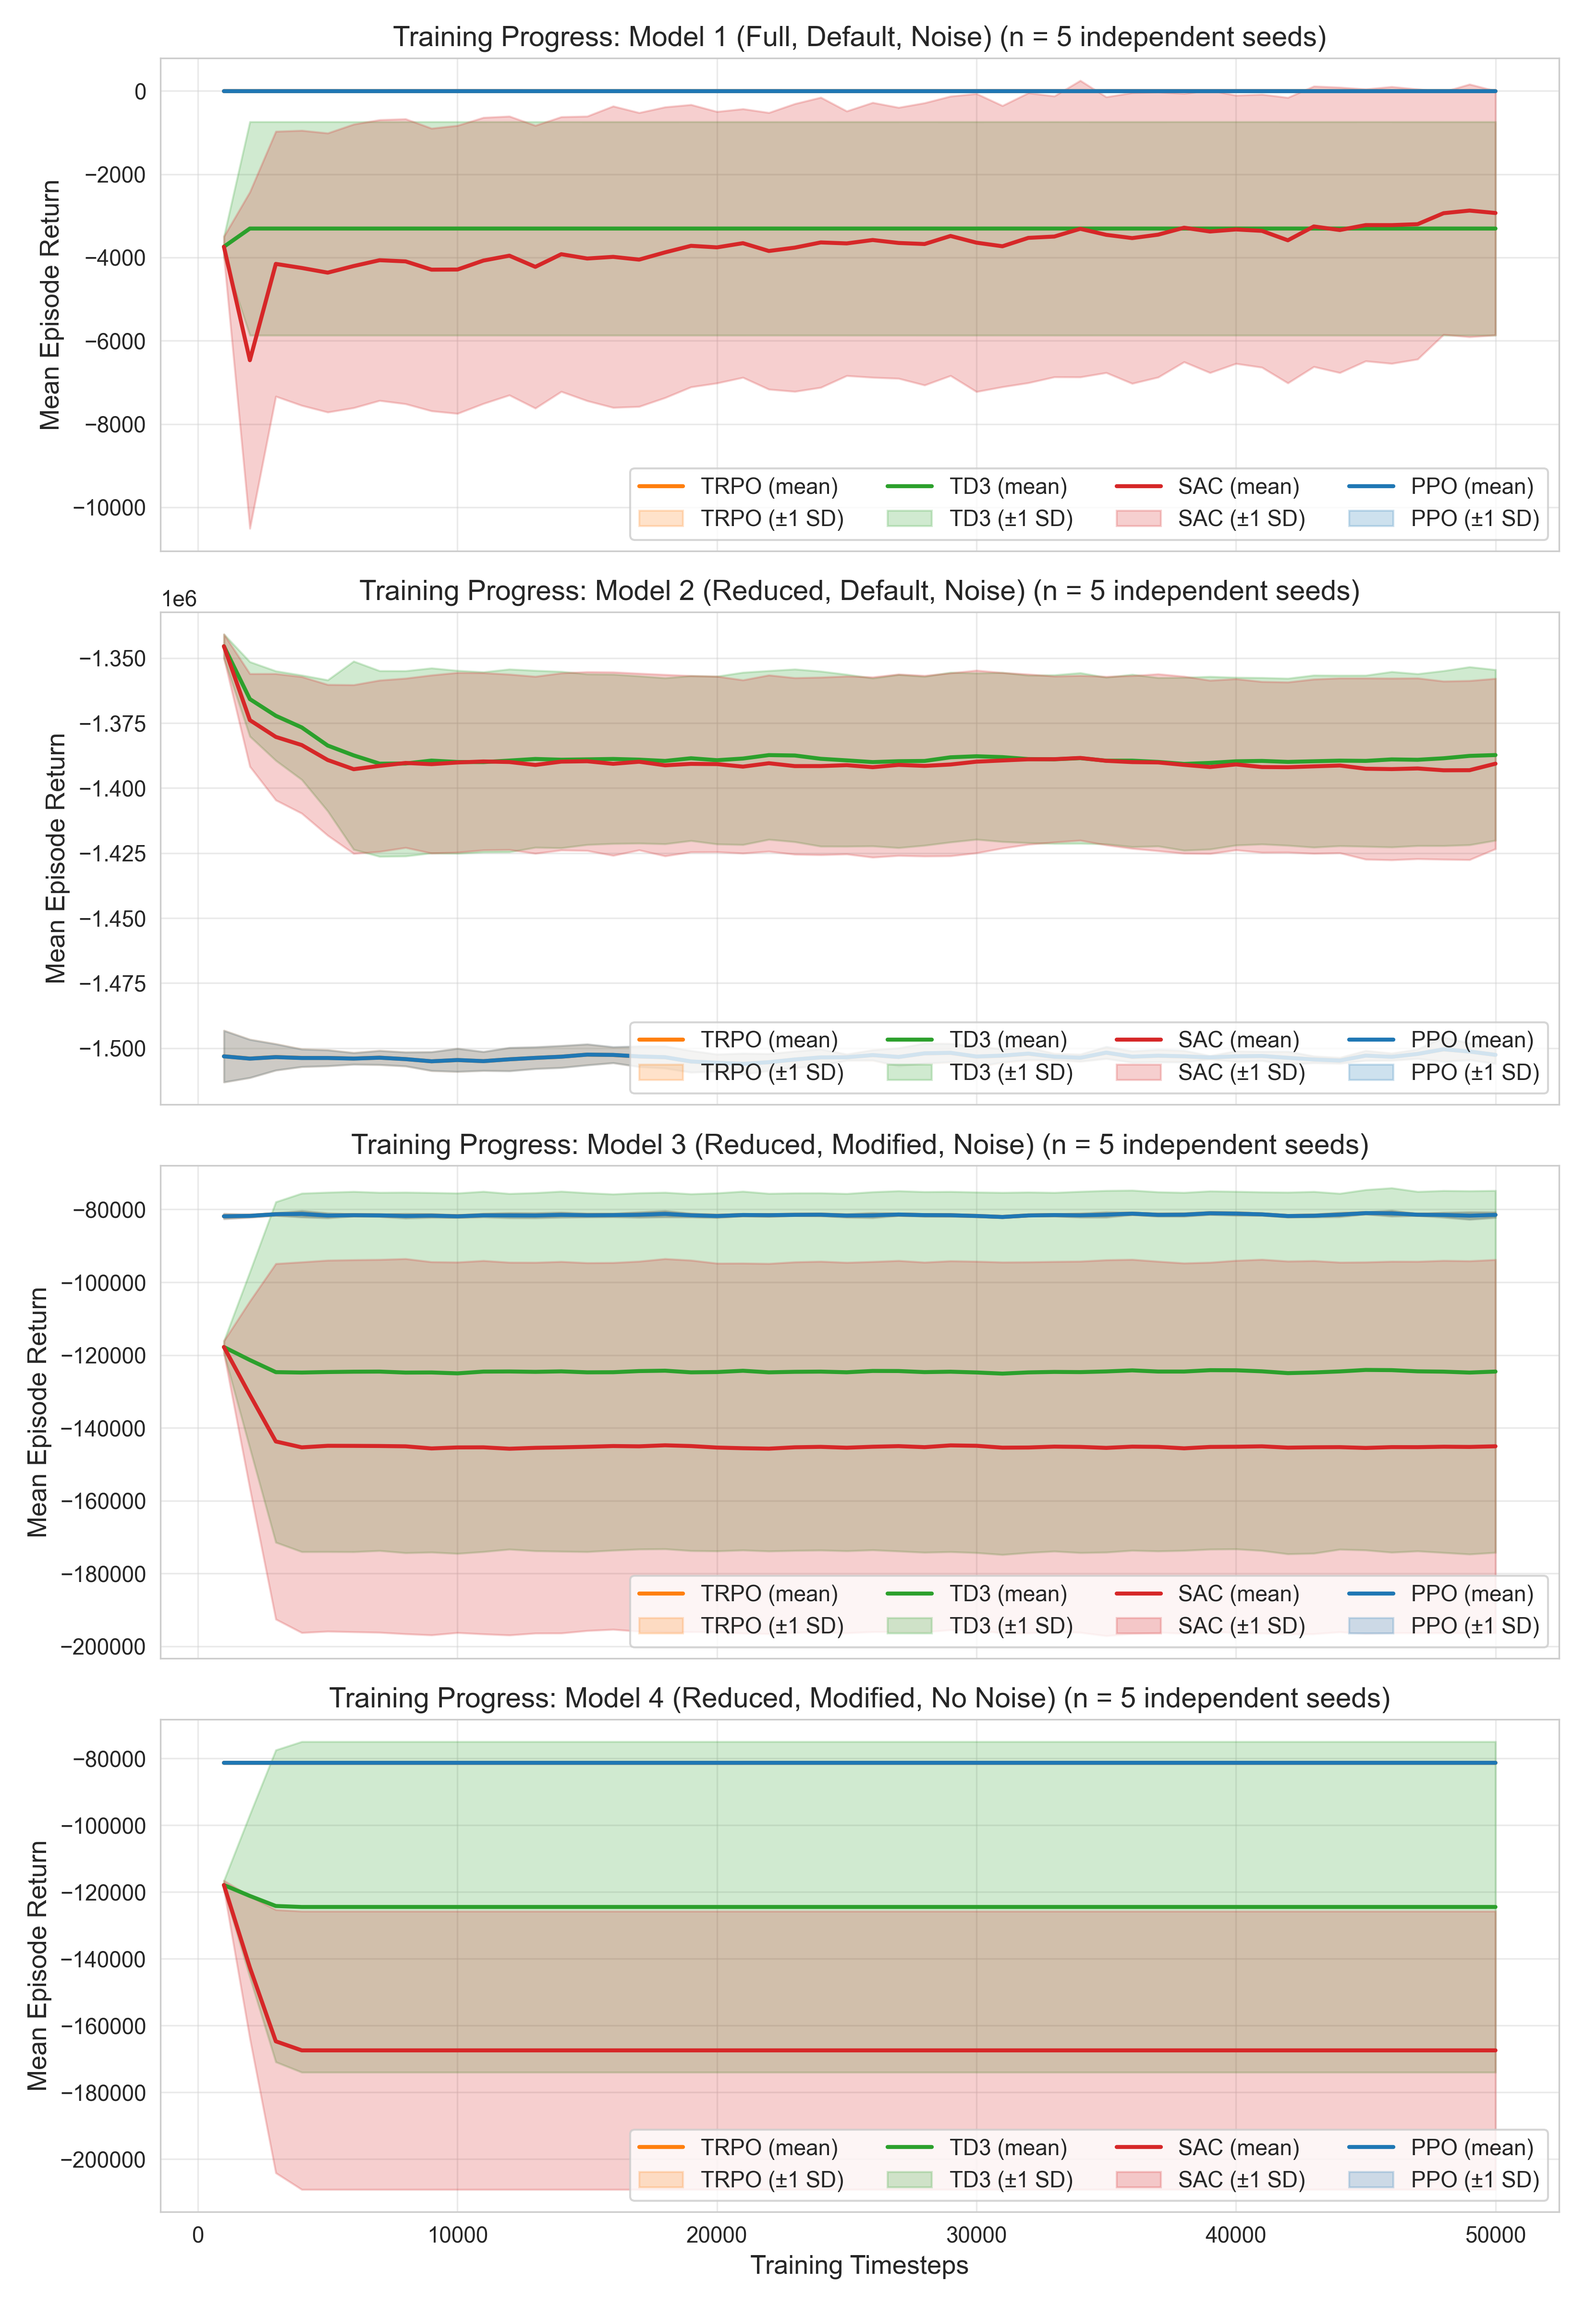
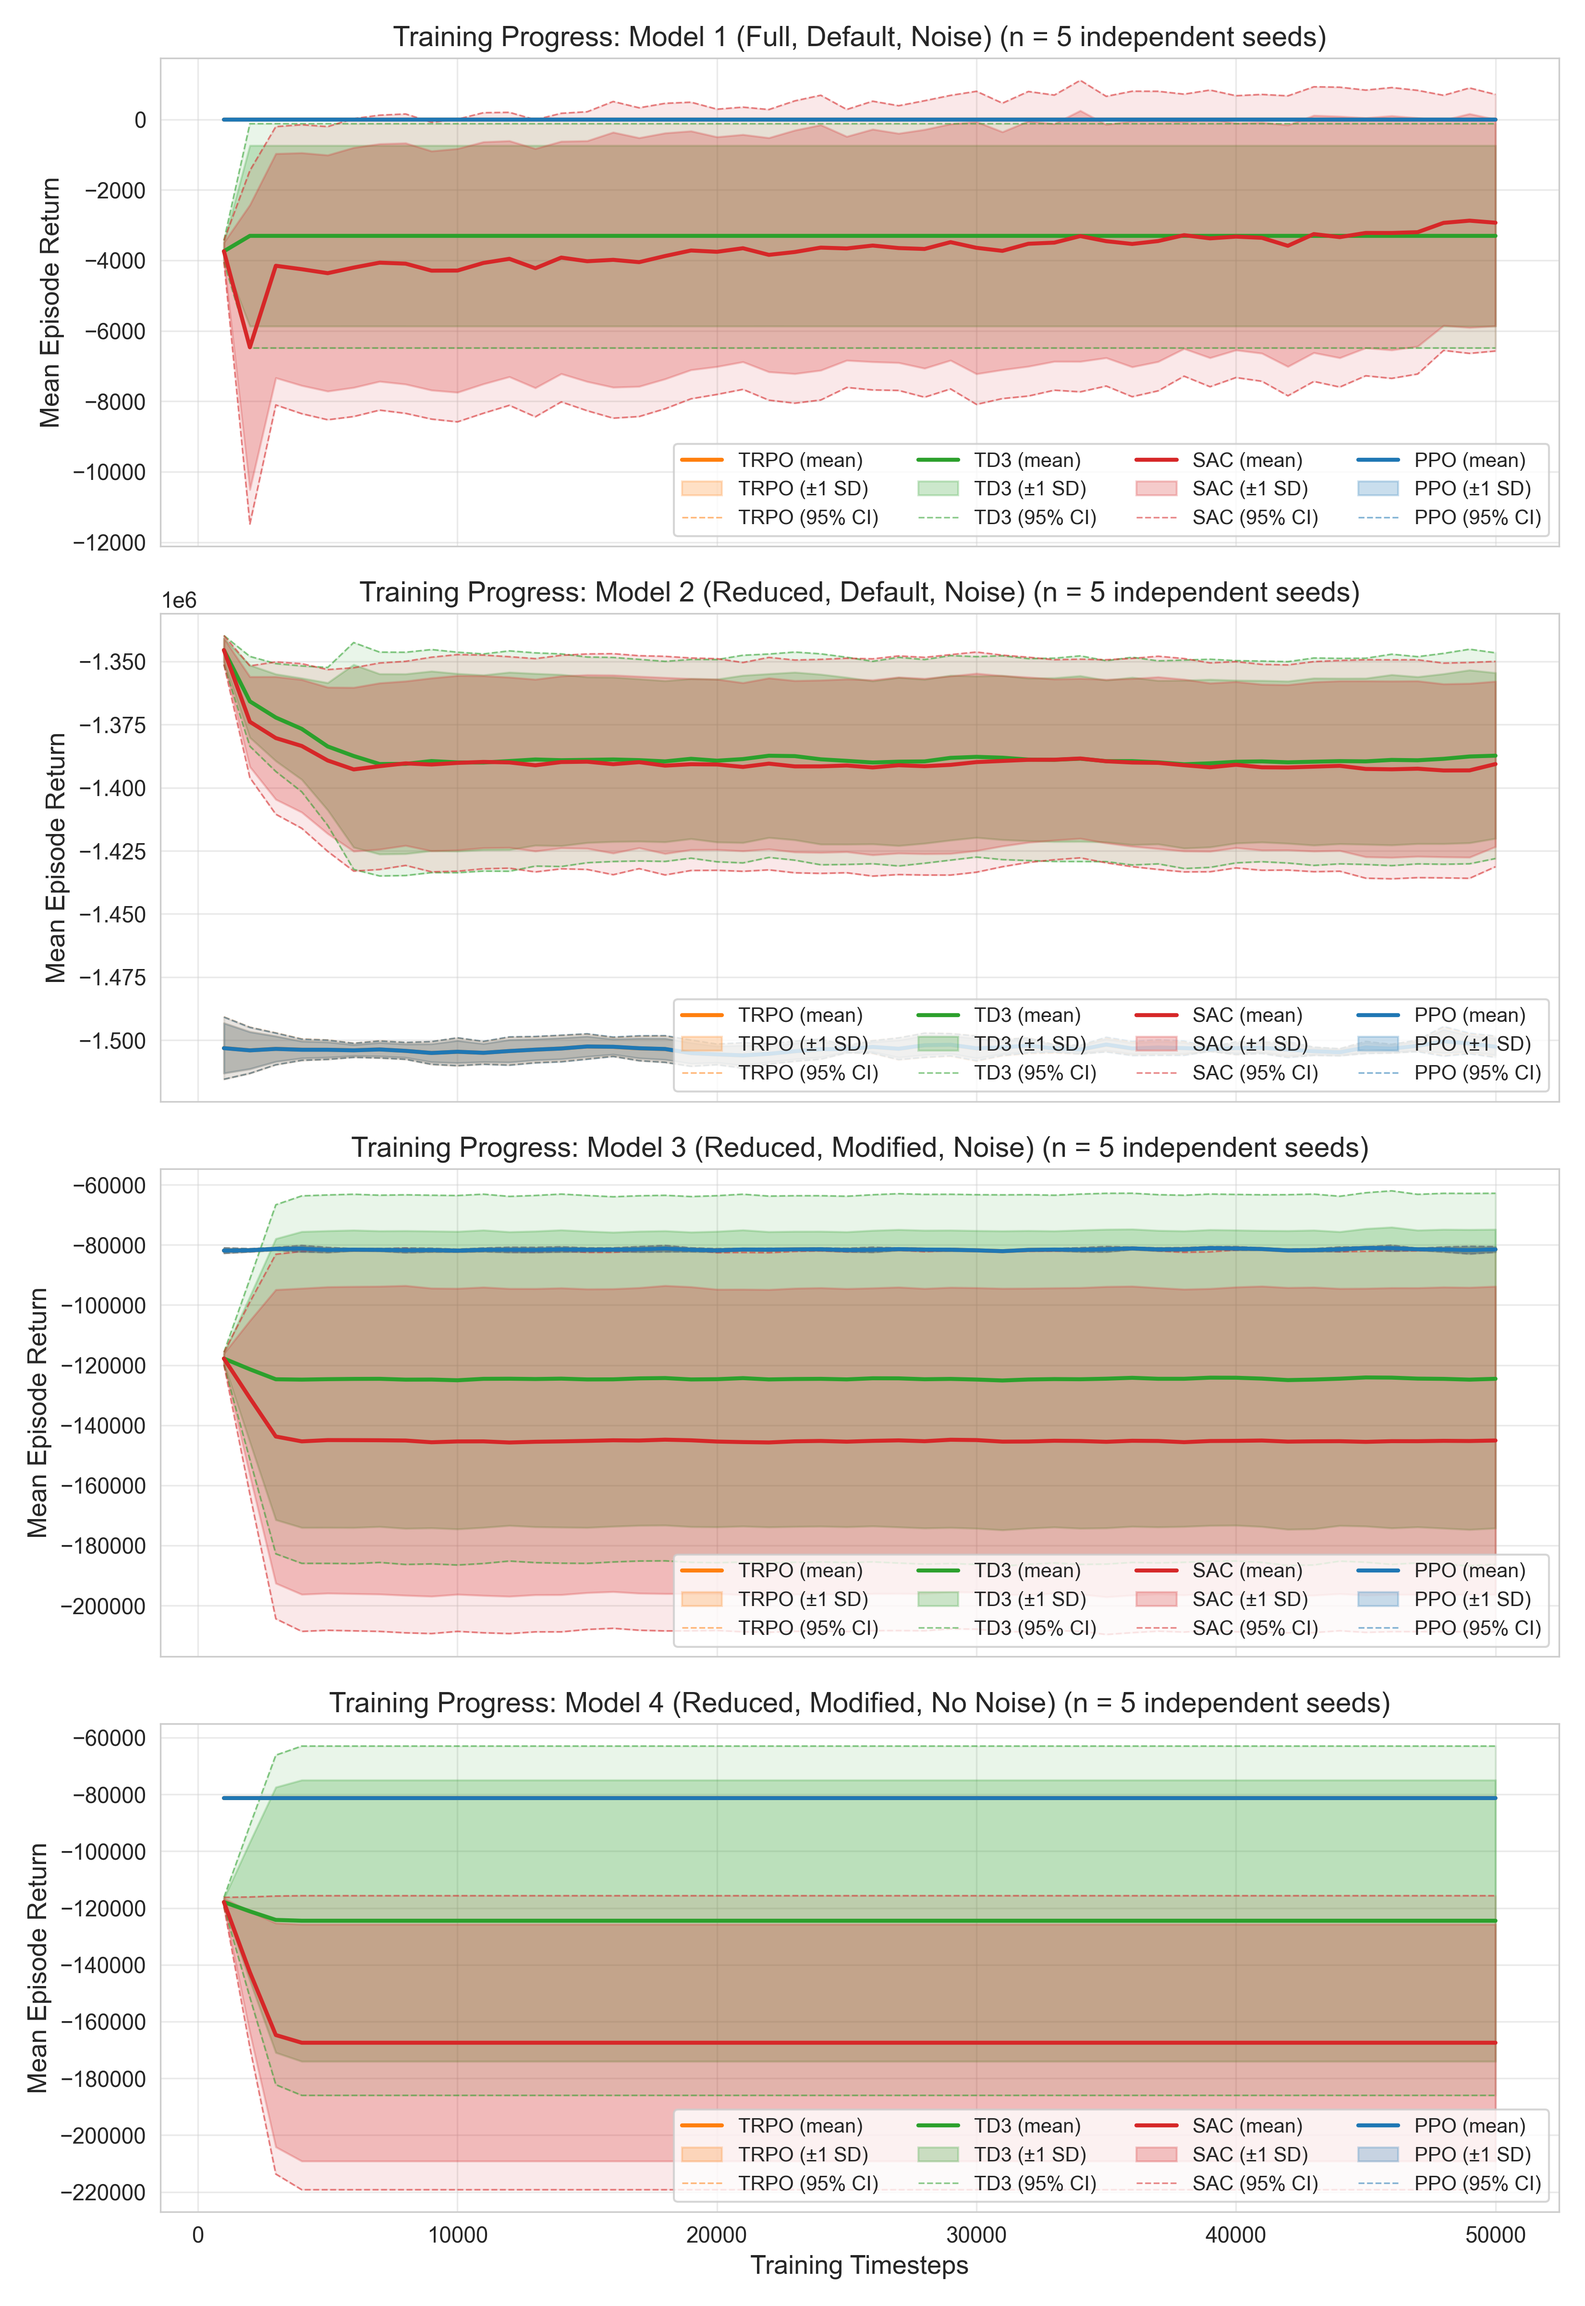
Use portable relative paths and plot both +-1 SD and 95% CI bands on learning curves

diff --git a/analyze_and_plot.py b/analyze_and_plot.py
@@ -1,13 +1,16 @@
+import os
 import json
 import numpy as np
 import scipy.stats as stats
 import matplotlib.pyplot as plt
 import seaborn as sns
 
-with open(r"C:\Users\USER\.gemini\antigravity\brain\7ff53ad6-4cd2-4b51-a639-b826042b038e\scratch\multiseed_results.json", "r") as f:
+BASE_DIR = os.path.dirname(os.path.abspath(__file__))
+
+with open(os.path.join(BASE_DIR, "multiseed_results.json"), "r") as f:
     data = json.load(f)
 
-with open(r"C:\Users\USER\.gemini\antigravity\brain\7ff53ad6-4cd2-4b51-a639-b826042b038e\scratch\dp_ablation_results.json", "r") as f:
+with open(os.path.join(BASE_DIR, "dp_ablation_results.json"), "r") as f:
     dp_data = json.load(f)
 
 rl_runs = data["rl_runs"]
@@ -155,10 +158,10 @@ for scen in scenarios:
             diff_pct = ((np.mean(v1) - np.mean(v2)) / abs(np.mean(v2))) * 100.0
             print(f"  {t[:6]} | {a1:4s} vs {a2:4s}: diff={diff_pct:+7.2f}%, U={u_stat:4.1f}, p={p_val:.4f}, r_rb={r_rb:+.2f}")
 
-with open(r"C:\Users\USER\.gemini\antigravity\brain\7ff53ad6-4cd2-4b51-a639-b826042b038e\scratch\statistical_summary.json", "w") as f:
+with open(os.path.join(BASE_DIR, "statistical_summary.json"), "w") as f:
     json.dump({"rl": summary, "baselines": base_summary, "dp": dp_data}, f, indent=2)
 
-# Plot Figure 2: Multi-seed learning curves with +/- 1 SD shaded confidence bands!
+# Plot Figure 3: Multi-seed learning curves with both +/- 1 SD dispersion bands and 95% t-CI bands!
 sns.set_style("whitegrid")
 plt.rcParams.update({
     'font.size': 12,
@@ -166,7 +169,7 @@ plt.rcParams.update({
     'axes.labelsize': 13,
     'xtick.labelsize': 11,
     'ytick.labelsize': 11,
-    'legend.fontsize': 11,
+    'legend.fontsize': 10,
 })
 
 fig, axes = plt.subplots(4, 1, figsize=(11, 16), sharex=True)
@@ -184,10 +187,15 @@ for ax, scen in zip(axes, scenarios):
             if len(ts) > 0:
                 interp_curves.append(np.interp(grid_t, ts, rw))
         interp_curves = np.array(interp_curves)
+        n_seeds = interp_curves.shape[0]
         mean_c = np.mean(interp_curves, axis=0)
         sd_c = np.std(interp_curves, axis=0, ddof=1)
+        ci95_c = stats.t.ppf(0.975, df=n_seeds - 1) * sd_c / np.sqrt(n_seeds)
         ax.plot(grid_t, mean_c, label=f"{algo} (mean)", color=colors[algo], linewidth=2.0)
-        ax.fill_between(grid_t, mean_c - sd_c, mean_c + sd_c, color=colors[algo], alpha=0.22, label=f"{algo} (±1 SD)")
+        ax.fill_between(grid_t, mean_c - sd_c, mean_c + sd_c, color=colors[algo], alpha=0.24, label=f"{algo} (±1 SD)")
+        ax.fill_between(grid_t, mean_c - ci95_c, mean_c + ci95_c, color=colors[algo], alpha=0.10)
+        ax.plot(grid_t, mean_c - ci95_c, color=colors[algo], linestyle="--", linewidth=0.8, alpha=0.55)
+        ax.plot(grid_t, mean_c + ci95_c, color=colors[algo], linestyle="--", linewidth=0.8, alpha=0.55, label=f"{algo} (95% CI)")
     ax.set_title(f"Training Progress: {scen} (n = 5 independent seeds)")
     ax.set_ylabel("Mean Episode Return")
     ax.legend(ncol=4, loc="lower right", frameon=True)
@@ -195,7 +203,12 @@ for ax, scen in zip(axes, scenarios):
 
 axes[-1].set_xlabel("Training Timesteps")
 plt.tight_layout()
-plt.savefig(r"c:\Users\USER\Desktop\Article 2 ODE\ODE Article - Revise\output.png", dpi=300)
-plt.savefig(r"c:\Users\USER\Desktop\Article 2 ODE\ODE Article - Revise\ChemoViro-DRL-Control\training_rewards_multiseed.png", dpi=300)
+out_png_repo = os.path.join(BASE_DIR, "output.png")
+out_png_multiseed = os.path.join(BASE_DIR, "training_rewards_multiseed.png")
+plt.savefig(out_png_repo, dpi=300)
+plt.savefig(out_png_multiseed, dpi=300)
+parent_out_png = os.path.join(os.path.dirname(BASE_DIR), "output.png")
+if os.path.isdir(os.path.dirname(BASE_DIR)):
+    plt.savefig(parent_out_png, dpi=300)
 plt.close()
-print("Saved multi-seed Figure 2 (output.png) with confidence bands!")
+print("Saved multi-seed Figure 3 (output.png) with ±1 SD dispersion bands and 95% CI boundaries!")

diff --git a/dp_grid_ablation.py b/dp_grid_ablation.py
@@ -1,6 +1,8 @@
+import os
 import time
 import json
 import numpy as np
+import matplotlib.pyplot as plt
 from scipy.integrate import solve_ivp
 from scipy.interpolate import interpn
 
@@ -124,7 +126,52 @@ def eval_dp(dp_tuple, weights=(1e-2, 1e-1), noise=False, seed=42):
             return total_r, tumor, step + 1
     return total_r, float(y[0] + y[1]), 400
 
+def plot_dp_ablation(results, out_png):
+    grids = [f"${r['grid_points_per_dim']}^4$" for r in results]
+    x = np.arange(len(results))
+    t1_mean = [r["test1_reward_mean"] / 1e6 for r in results]
+    t1_sd = [r["test1_reward_sd"] / 1e6 for r in results]
+    t2_val = [r["test2_reward"] / 1e6 for r in results]
+    vec_rt = [r["vectorized_runtime_s"] for r in results]
+    ser_rt = [r["serial_solve_ivp_est_s"] for r in results]
+    mem_mb = [r["memory_mb"] for r in results]
+
+    fig, axes = plt.subplots(1, 3, figsize=(15, 4.6))
+    axes[0].errorbar(x, t1_mean, yerr=t1_sd, fmt='-o', capsize=4, linewidth=2.0, label="4D DP on Test 1 (Mean ± 1 SD, n=5)")
+    axes[0].plot(x, t2_val, '--s', linewidth=1.8, label="4D DP on Test 2 (No Noise)")
+    axes[0].axhline(-1.317, color='gray', linestyle=':', linewidth=1.6, label="Constant Half-Dose (-1.317e6)")
+    axes[0].axhline(-1.164, color='green', linestyle='-.', linewidth=1.6, label="Matched 2-Stage Open-Loop (-1.164e6)")
+    axes[0].set_xticks(x); axes[0].set_xticklabels(grids)
+    axes[0].set_xlabel("Grid Resolution ($N_g^4$)")
+    axes[0].set_ylabel("Cumulative Return ($\\times 10^6$)")
+    axes[0].set_title("(a) Policy Return vs. Grid Resolution")
+    axes[0].legend(fontsize=8.5, loc="lower right")
+    axes[0].grid(True, alpha=0.35)
+
+    axes[1].plot(x, vec_rt, '-o', linewidth=2.0, label="Vectorized 20-substep RK4 (s)")
+    axes[1].plot(x, ser_rt, '--^', linewidth=2.0, label="Est. Serial solve_ivp (s)")
+    axes[1].set_yscale("log")
+    axes[1].set_xticks(x); axes[1].set_xticklabels(grids)
+    axes[1].set_xlabel("Grid Resolution ($N_g^4$)")
+    axes[1].set_ylabel("Runtime (seconds, log scale)")
+    axes[1].set_title("(b) Computational Runtime Scaling")
+    axes[1].legend(fontsize=9, loc="upper left")
+    axes[1].grid(True, alpha=0.35)
+
+    axes[2].bar(x, mem_mb, width=0.55, color="#4c72b0", edgecolor="black")
+    axes[2].set_yscale("log")
+    axes[2].set_xticks(x); axes[2].set_xticklabels(grids)
+    axes[2].set_xlabel("Grid Resolution ($N_g^4$)")
+    axes[2].set_ylabel("Table Memory Footprint (MB, log scale)")
+    axes[2].set_title("(c) Memory Scaling ($O(N_g^4)$)")
+    axes[2].grid(True, alpha=0.35, axis="y")
+
+    plt.tight_layout()
+    plt.savefig(out_png, dpi=300)
+    plt.close()
+
 if __name__ == "__main__":
+    base_dir = os.path.dirname(os.path.abspath(__file__))
     results = []
     for n_g in [10, 15, 20, 30, 50]:
         print(f"Running DP for grid {n_g}^4 = {n_g**4} states...")
@@ -147,5 +194,9 @@ if __name__ == "__main__":
         }
         print(res)
         results.append(res)
-    with open(r"C:\Users\USER\.gemini\antigravity\brain\7ff53ad6-4cd2-4b51-a639-b826042b038e\scratch\dp_ablation_results.json", "w") as f:
+    out_json = os.path.join(base_dir, "dp_ablation_results.json")
+    with open(out_json, "w") as f:
         json.dump(results, f, indent=2)
+    out_png = os.path.join(base_dir, "dp_ablation.png")
+    plot_dp_ablation(results, out_png)
+    print("Saved DP ablation results and figure to", out_json, "and", out_png)

diff --git a/run_multiseed_drl.py b/run_multiseed_drl.py
@@ -521,7 +521,7 @@ if __name__ == "__main__":
                 "param_unc_burden_mean": float(np.mean(param_burdens))
             })
 
-    out_path = r"C:\Users\USER\.gemini\antigravity\brain\7ff53ad6-4cd2-4b51-a639-b826042b038e\scratch\multiseed_results.json"
+    out_path = os.path.join(os.path.dirname(os.path.abspath(__file__)), "multiseed_results.json")
     with open(out_path, "w") as f:
         json.dump({"rl_runs": all_out, "baselines": baseline_out}, f, indent=2)
     print("Saved results to", out_path)

diff --git a/README.md b/README.md
@@ -11,7 +11,7 @@ This project benchmarks four continuous-action actor-critic Deep Reinforcement L
 * `run_multiseed_drl.py`: Multi-seed training and evaluation suite (`5` independent seeds `[42, 123, 456, 789, 1024]` $\times$ `16` agent-scenario combinations = `80` trained models) evaluating cumulative reward, terminal tumor burden $(U+I)(T_f)$, cross-dimensional 4D$\to$6D transfer, the 6D zero-immune-lysis control ($\nu_U = \nu_I = \tau = 0$), and parametric uncertainty across 10 sampled ODE parameter sets.
 * `dp_grid_ablation.py`: Vectorized 4D Dynamic Programming grid resolution sweep across $N_g \in \{10, 15, 20, 30, 50\}$ points per state dimension ($10^4$ to $50^4 = 6.25 \times 10^6$ states), measuring memory footprint, computation time, and policy return.
 * `run_baselines_and_dp_ablation.py`: Grid search for matched open-loop constant and two-stage piecewise-constant dosing baselines under both high-toxicity-penalty ($A_1=10^{-2}, A_2=10^{-1}$) and low-toxicity-penalty ($A_1=10^{-7}, A_2=10^{-5}$) regimes.
-* `analyze_and_plot.py`: Post-processing and statistical analysis script computing 5-seed sample means, standard deviations, 95% $t$-confidence intervals, relative percentage changes ($\Delta\% \pm \text{SD}$), exact two-sided Mann-Whitney $U$ statistics, $p$-values, and rank-biserial effect sizes ($r_{\text{rb}}$), and generating the multi-seed learning curves with $\pm 1\text{ SD}$ dispersion bands.
+* `analyze_and_plot.py`: Post-processing and statistical analysis script computing 5-seed sample means, standard deviations, 95% $t$-confidence intervals, relative percentage changes ($\Delta\% \pm \text{SD}$), exact two-sided Mann-Whitney $U$ statistics, $p$-values, and rank-biserial effect sizes ($r_{\text{rb}}$), and generating the multi-seed learning curves with both $\pm 1\text{ SD}$ dispersion bands and $95\%$ $t$-CI boundaries.
 * `multiseed_results.json`, `statistical_summary.json`, & `dp_ablation_results.json`: Raw seed-level evaluation outputs and complete multi-seed statistical summaries.
 * `output.png` (`training_rewards_multiseed.png`) & `dp_ablation.png`: Publication figures generated by the benchmark suite.
 
